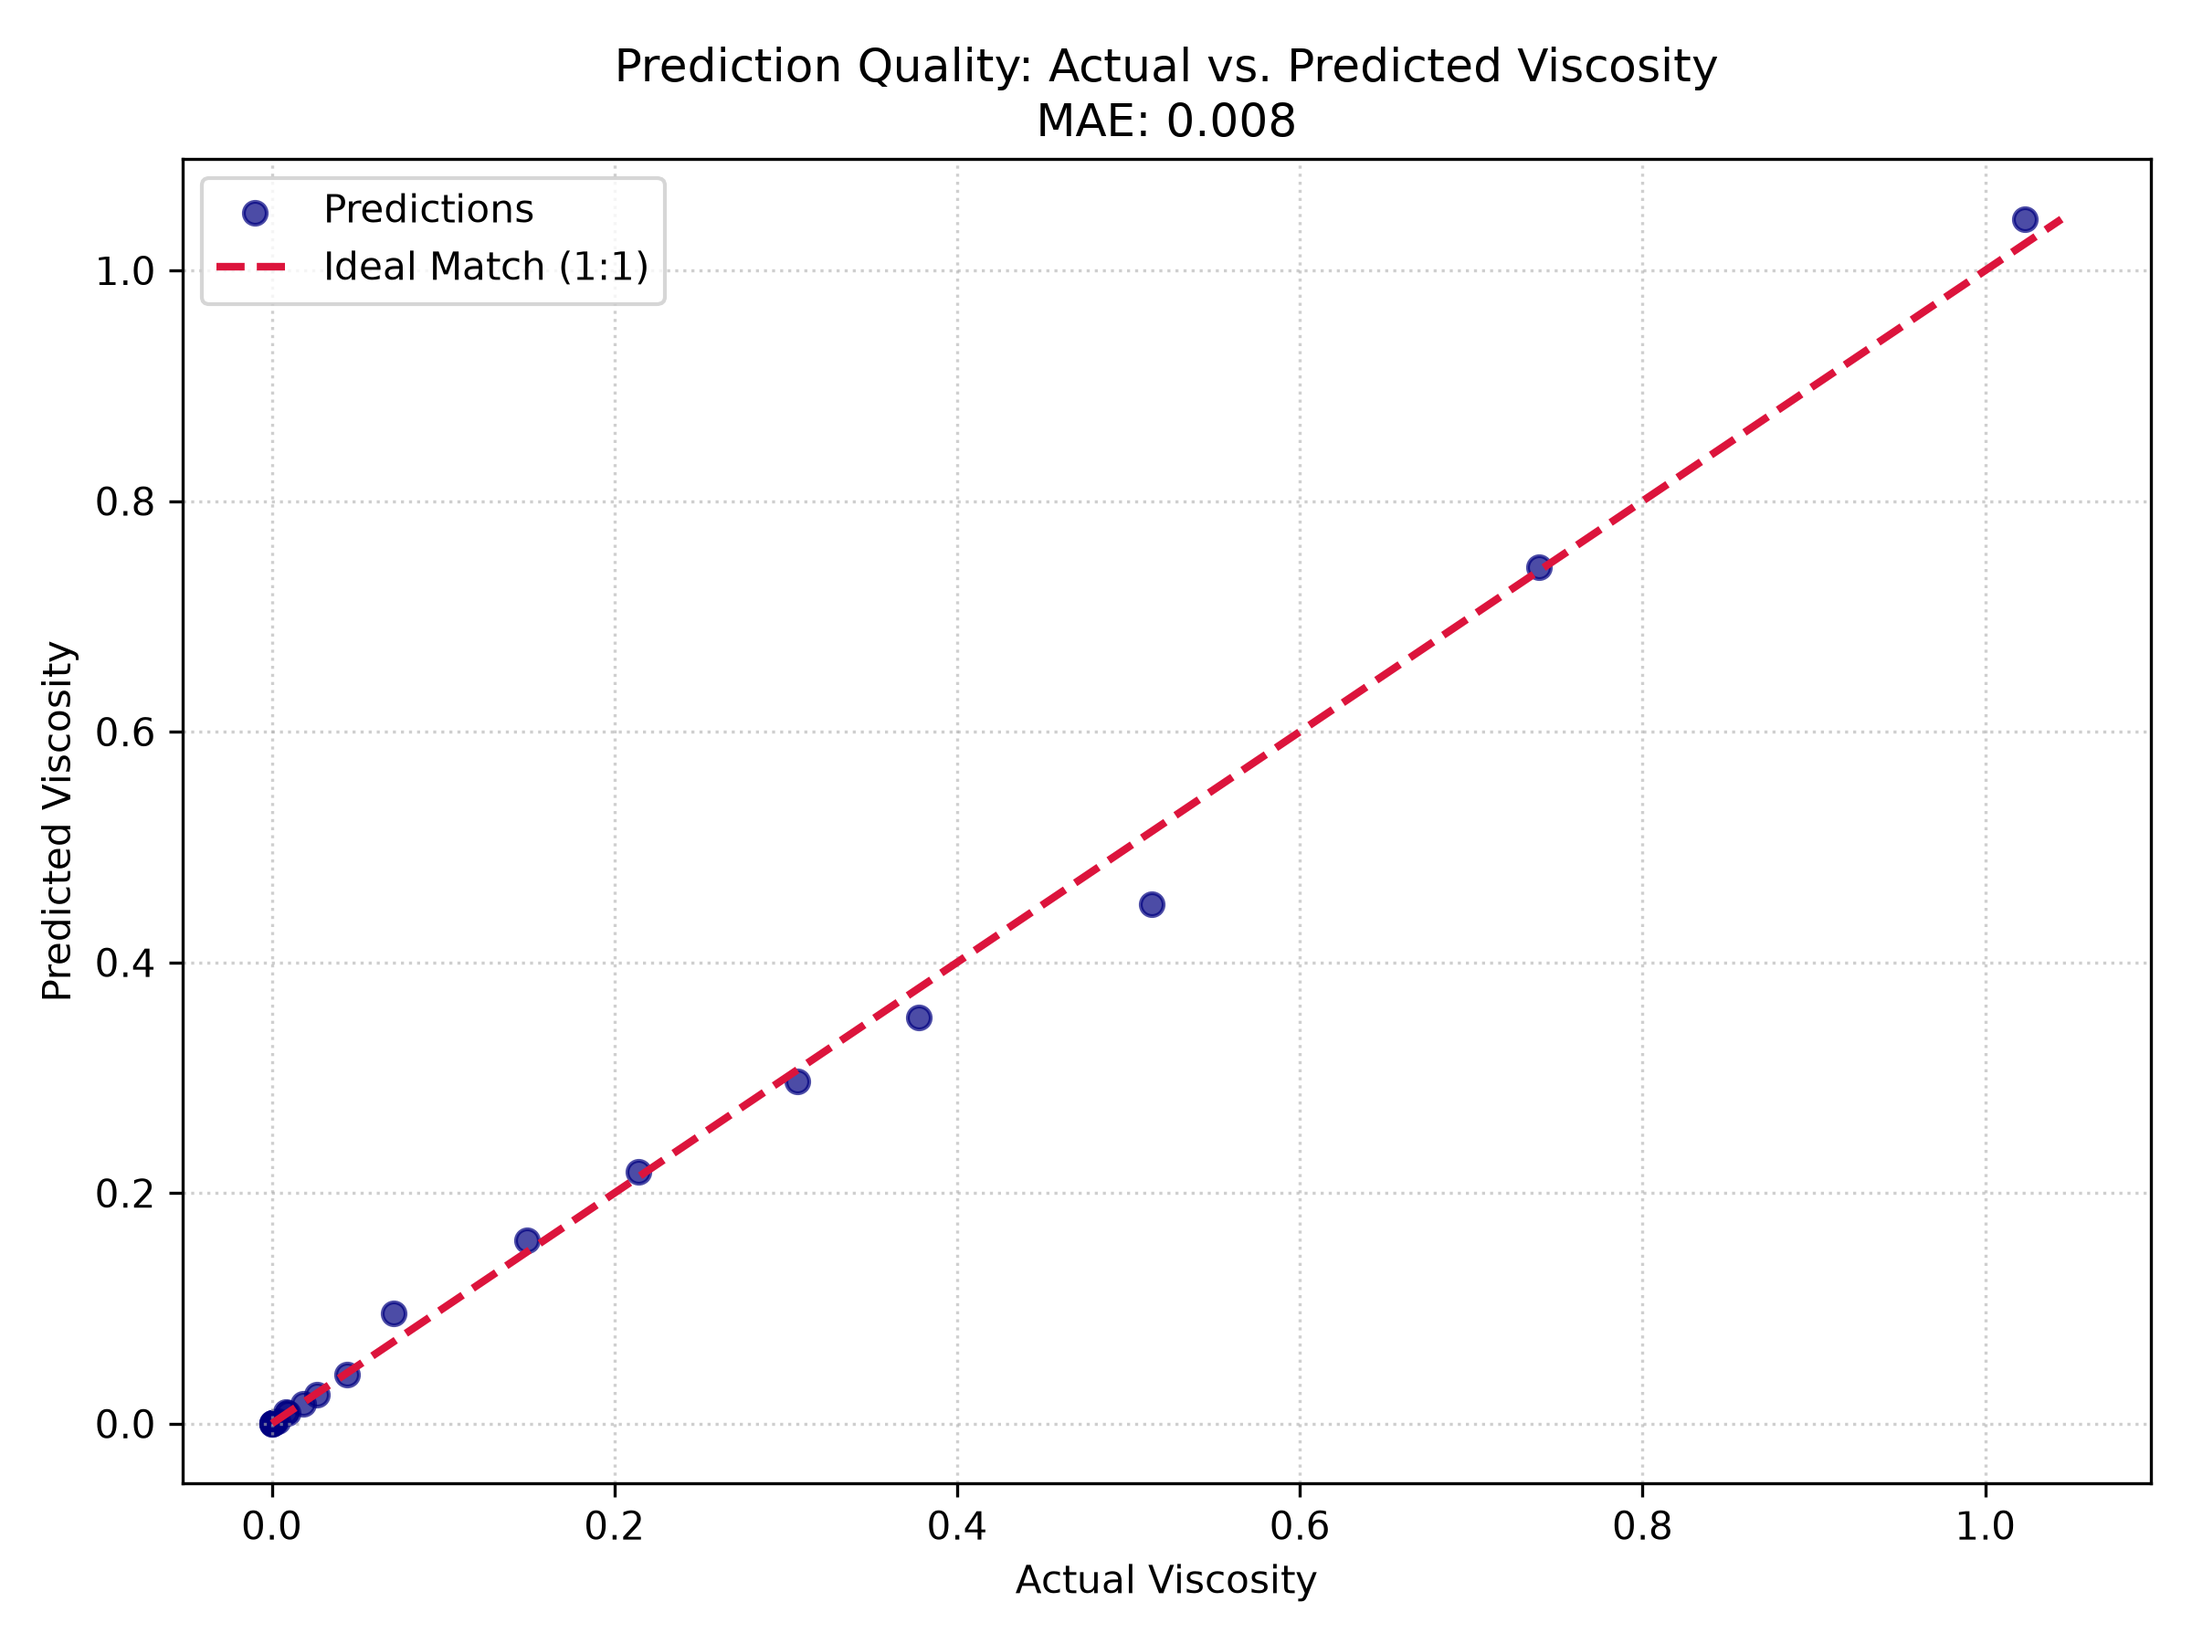
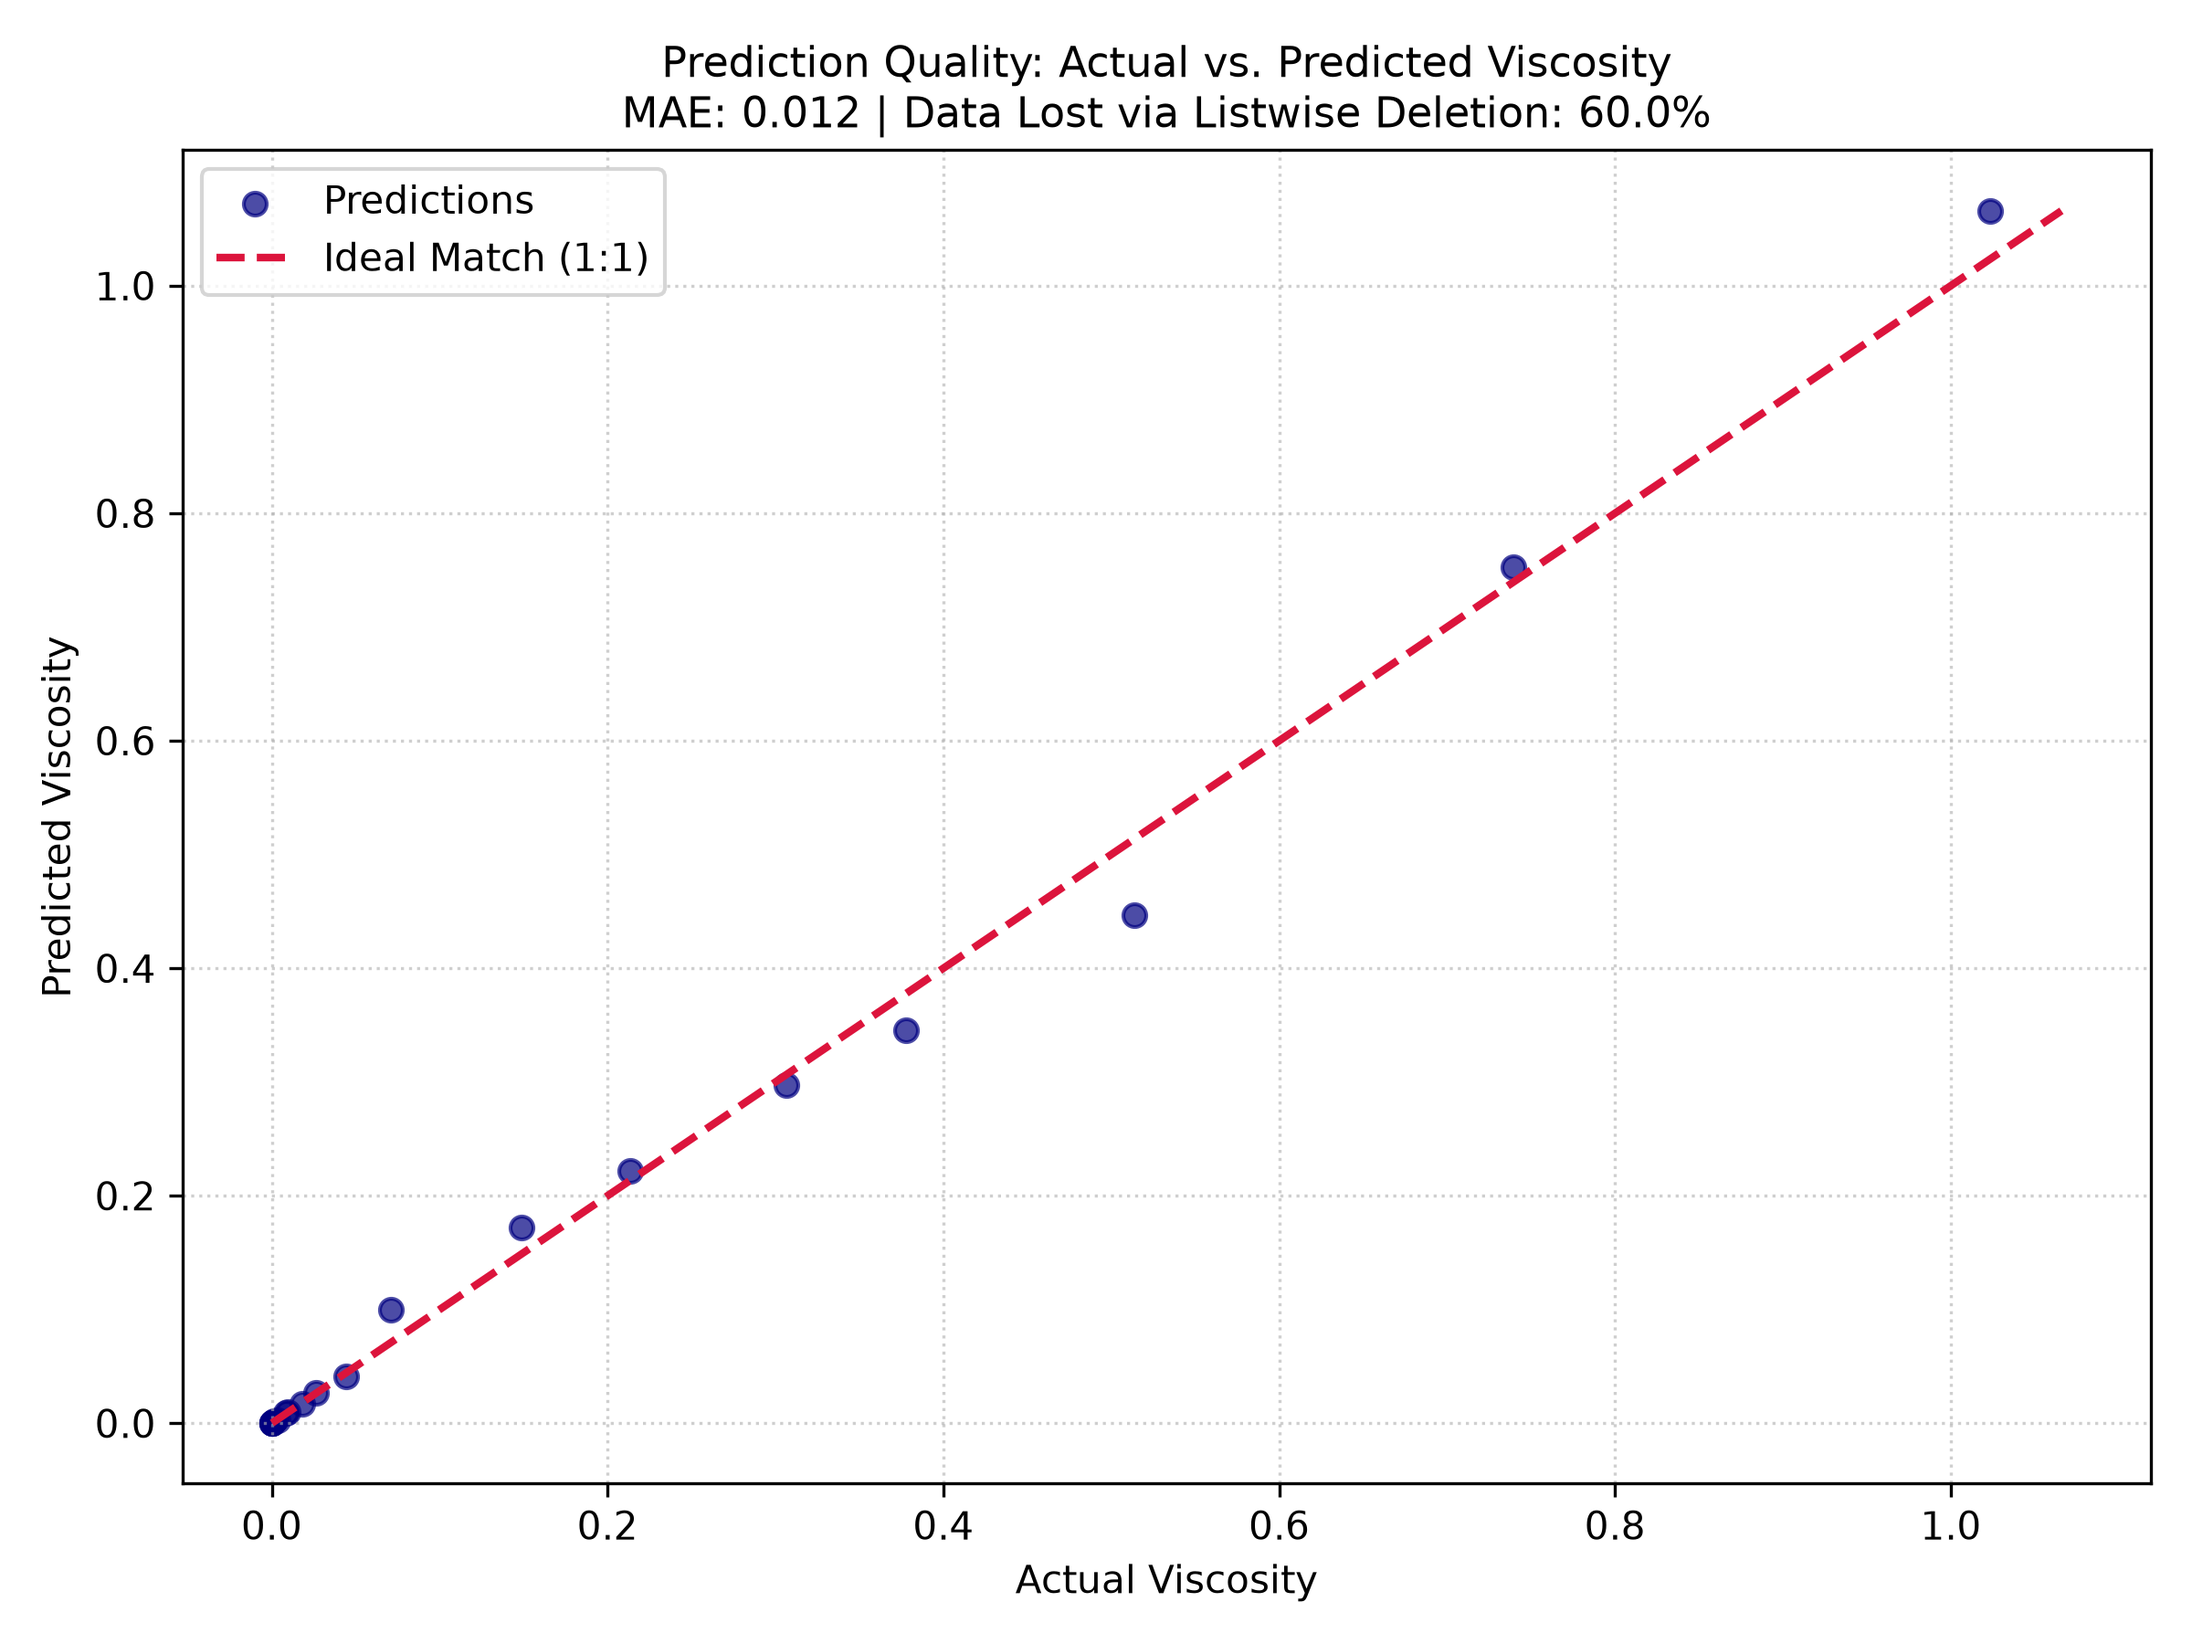
Due to problems with the previous commit, the code was remade and now showcases the listwise deletion imputation correctly, plots it, and prints the amount of data lost due to the listwise deletion.

diff --git a/CobberImpute/CobberImpute.py b/CobberImpute/CobberImpute.py
@@ -8,15 +8,28 @@ from sklearn.model_selection import train_test_split
 # 1. Load data
 df_original = pd.read_csv("alkane_dataset.csv")
 
-# 2. Perform listwise deletion
+# Track initial dataset size
+n_original = len(df_original)
+
+# 2. Perform Listwise Deletion
 df_clean = df_original.dropna().reset_index(drop=True)
 
+# Calculate deletion statistics
+n_clean = len(df_clean)
+n_deleted = n_original - n_clean
+pct_deleted = (n_deleted / n_original) * 100
+
+print("=== DATASET CLEANING REPORT ===")
+print(f"Original Row Count: {n_original}")
+print(f"Rows Retained:      {n_clean}")
+print(f"Rows Deleted:       {n_deleted}")
+print(f"Dataset Lost:       {pct_deleted:.2f}%\n")
+
 # 3. Specify target variable and predictors
-target_col = "viscosity"  # Example target feature
+target_col = "viscosity"
 feature_cols = [
     "carbons",
     "molecular weight",
-    "viscosity",
     "thermal conductivity",
     "heat capacity",
     "branch number",
@@ -59,9 +72,11 @@ plt.plot(
     label="Ideal Match (1:1)",
 )
 
+# Annotate title with both MAE and percentage lost
 plt.title(
-    f"Prediction Quality: Actual vs. Predicted {target_col.title()}\nMAE: {mae:.3f}",
-    fontsize=12,
+    f"Prediction Quality: Actual vs. Predicted {target_col.title()}\n"
+    f"MAE: {mae:.3f} | Data Lost via Listwise Deletion: {pct_deleted:.1f}%",
+    fontsize=11,
 )
 plt.xlabel(f"Actual {target_col.title()}", fontsize=10)
 plt.ylabel(f"Predicted {target_col.title()}", fontsize=10)
@@ -69,6 +84,6 @@ plt.grid(True, linestyle=":", alpha=0.6)
 plt.legend()
 plt.tight_layout()
 
-# Save image file to repository for Git tracking
+# Save image file to repository
 plt.savefig("prediction_quality.png", dpi=300)
 plt.show()
